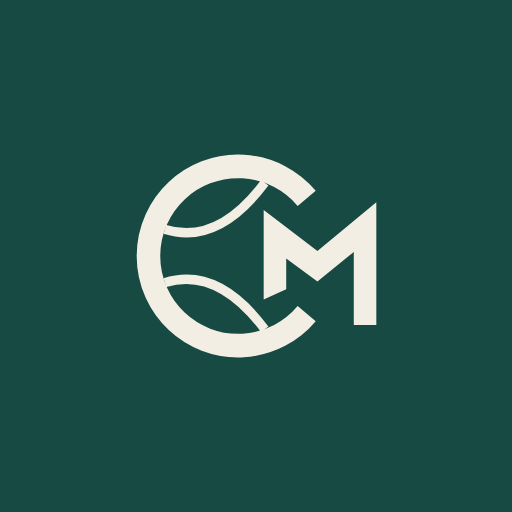
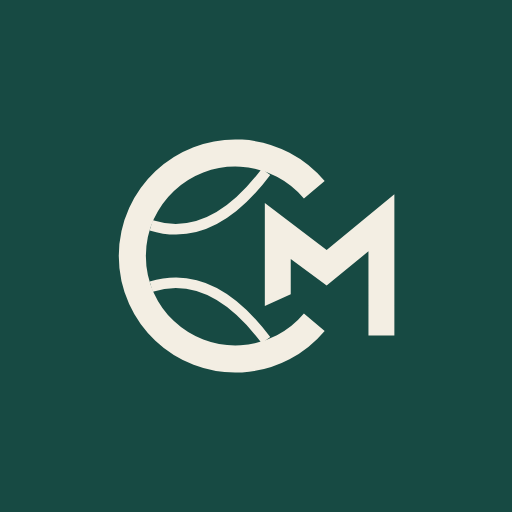
앱 아이콘 로고 1.15배 확대 (1012-6)
Claude-Session: https://claude.ai/code/session_01CSmGgJEpVoMyHKE7HHUnDU

diff --git a/app.js b/app.js
@@ -19,7 +19,7 @@ function pop(msg){$("#popmsg").textContent=msg;$("#pop").style.display="flex"}
 const base=()=>$("#pop").style.display="none";$("#popok").onclick=base;
 const ask=(m,ok="확인",no="취소")=>new Promise(r=>{$("#popmsg").textContent=m;$("#popok").textContent=ok;$("#popno").textContent=no;$("#popno").style.display="block";$("#pop").style.display="flex";const d=v=>{base();$("#popok").textContent="확인";$("#popno").style.display="none";$("#popok").onclick=base;r(v)};$("#popok").onclick=()=>d(true);$("#popno").onclick=()=>d(false)});
 const askText=(m,v="")=>new Promise(r=>{const pi=$("#popin");$("#popmsg").textContent=m;pi.style.display="block";pi.value=v;$("#popok").textContent="확인";$("#popno").textContent="취소";$("#popno").style.display="block";$("#pop").style.display="flex";setTimeout(()=>pi.focus(),60);const d=x=>{base();pi.style.display="none";$("#popno").style.display="none";$("#popok").onclick=base;r(x)};$("#popok").onclick=()=>d(pi.value);$("#popno").onclick=()=>d(null)});
-const APPV="v0.1",BUILD="1012-5",FBT={ux:"불편해요",bug:"오류가 있어요",idea:"이런 기능이 있으면",etc:"기타"},FBS={new:"접수",seen:"확인함",done:"반영함"};
+const APPV="v0.1",BUILD="1012-6",FBT={ux:"불편해요",bug:"오류가 있어요",idea:"이런 기능이 있으면",etc:"기타"},FBS={new:"접수",seen:"확인함",done:"반영함"};
 let toastT=null;function toast(m,lb,fn){const t=$("#toast");t.innerHTML="";const sp=document.createElement("span");sp.textContent=m;t.appendChild(sp);if(lb){const b=document.createElement("button");b.textContent=lb;b.onclick=()=>{t.style.display="none";fn&&fn()};t.appendChild(b)}t.style.display="flex";clearTimeout(toastT);toastT=setTimeout(()=>t.style.display="none",lb?6000:2600)}
 const isDev=()=>!!(CFG.devEmail&&S.user&&S.user.email===CFG.devEmail);
 const NPP={psa:"psb",sa:"sb",qa:"qb"},NPS=["psb","sb","qb"];let npT=null;

diff --git a/sw.js b/sw.js
@@ -1,4 +1,4 @@
-const V = 'cm-v6';
+const V = 'cm-v7';
 const SHELL = ['./', 'index.html', 'app.css', 'app.js', 'core.js', 'ft.js', 'ft-core.js', 'ft-data.js', 'privacy.html', 'firebase-config.js', 'manifest.webmanifest', 'icon-192.png'];
 self.addEventListener('install', e => { e.waitUntil(caches.open(V).then(c => c.addAll(SHELL))); self.skipWaiting(); });
 self.addEventListener('activate', e => { e.waitUntil(caches.keys().then(k => Promise.all(k.filter(x => x !== V).map(x => caches.delete(x)))).then(() => self.clients.claim())); });

diff --git a/HANDOFF.md b/HANDOFF.md
@@ -1,7 +1,7 @@
 # Court Manager 인수인계 문서
 
 > Claude가 GitHub 저장소에 직접 연결돼 있어요. 새 대화에서 "court_manager 저장소에서 …"라고 요청하면 최신 파일을 저장소에서 바로 읽어요.
-> 기준 시점: 2026-10-11 · **BUILD `1012-5`** · 버전 표기 `v0.1`
+> 기준 시점: 2026-10-11 · **BUILD `1012-6`** · 버전 표기 `v0.1`
 
 ---
 
@@ -25,7 +25,7 @@
 | `firebase-config.js` | ⚠ **절대 덮어쓰지 말 것**(App Check 키·개발자 이메일 포함, 저장소 것이 최신) |
 | `firestore.rules` | 보안 규칙. `main`에 푸시하면 **자동 게시**(GitHub Actions `.github/workflows/firestore-rules.yml`, Secret `FIREBASE_SERVICE_ACCOUNT` = 규칙 게시 전용 서비스 계정 `github-rules-deploy`). 수동 재실행: Actions › Firestore rules deploy › Run workflow |
 | `sw.js` | 서비스 워커 `cm-v4`: 네트워크 우선, 3초 응답 없으면 저장본 |
-| `icon.svg` | **앱 아이콘 원본**(CM 모노그램, C 안 공 실밥, 숲색 `#174A43`·크림 `#F3EEE3`). PNG(`icon-192/512`, `icon-maskable-512`, `apple-touch-icon`, `favicon-32`(실밥 굵게))는 이 SVG에서 Playwright로 렌더(1012-5) |
+| `icon.svg` | **앱 아이콘 원본**(CM 모노그램, C 안 공 실밥, 로고 1.15배(폭 약 51%, 1012-6), 숲색 `#174A43`·크림 `#F3EEE3`). PNG(`icon-192/512`, `icon-maskable-512`, `apple-touch-icon`, `favicon-32`(실밥 굵게))는 이 SVG에서 Playwright로 렌더(1012-5) |
 | `manifest.webmanifest`, `privacy.html` | 스토어 대비 매니페스트, 개인정보처리방침(`#delete`에 계정 삭제 안내) |
 | `tests/core.test.mjs` | core.js 테스트 138개 |
 | `tests/check.py` | **점검 한 번에 돌리기** |
